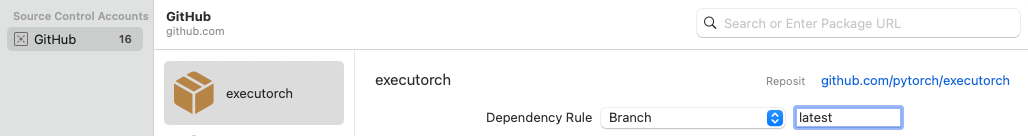
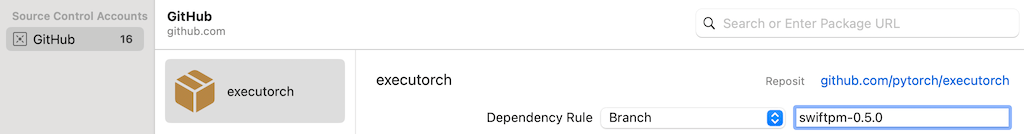
Update Apple binaries pin and docs. (#8056)
* Update nightly builds version for Apple binaries.

* Update Apple binaries pin.

* Update Aple binaries version in docs.

diff --git a/docs/source/apple-runtime.md b/docs/source/apple-runtime.md
@@ -25,7 +25,7 @@ The prebuilt ExecuTorch runtime, backend, and kernels are available as a [Swift 
 
 #### Xcode
 
-In Xcode, go to `File > Add Package Dependencies`. Paste the URL of the [ExecuTorch repo](https://github.com/pytorch/executorch) into the search bar and select it. Make sure to change the branch name to the desired ExecuTorch version in format "swiftpm-<version>", (e.g. "swiftpm-0.4.0"), or a branch name in format "swiftpm-<version>.<year_month_date>" (e.g. "swiftpm-0.4.0-20241201") for a nightly build on a specific date.
+In Xcode, go to `File > Add Package Dependencies`. Paste the URL of the [ExecuTorch repo](https://github.com/pytorch/executorch) into the search bar and select it. Make sure to change the branch name to the desired ExecuTorch version in format "swiftpm-<version>", (e.g. "swiftpm-0.5.0"), or a branch name in format "swiftpm-<version>.<year_month_date>" (e.g. "swiftpm-0.5.0-20250130") for a nightly build on a specific date.
 
 ![](_static/img/swiftpm_xcode1.png)
 
@@ -58,7 +58,7 @@ let package = Package(
   ],
   dependencies: [
     // Use "swiftpm-<version>.<year_month_day>" branch name for a nightly build.
-    .package(url: "https://github.com/pytorch/executorch.git", branch: "swiftpm-0.4.0")
+    .package(url: "https://github.com/pytorch/executorch.git", branch: "swiftpm-0.5.0")
   ],
   targets: [
     .target(

diff --git a/examples/demo-apps/apple_ios/LLaMA/docs/delegates/mps_README.md b/examples/demo-apps/apple_ios/LLaMA/docs/delegates/mps_README.md
@@ -76,7 +76,7 @@ sudo /Applications/CMake.app/Contents/bin/cmake-gui --install
 The prebuilt ExecuTorch runtime, backend, and kernels are available as a Swift PM package.
 
 ### Xcode
-Open the project in Xcode.In Xcode, go to `File > Add Package Dependencies`. Paste the URL of the ExecuTorch repo into the search bar and select it. Make sure to change the branch name to the desired ExecuTorch version, e.g., “0.4.0”, or just use the “latest” branch name for the latest stable build.
+Open the project in Xcode.In Xcode, go to `File > Add Package Dependencies`. Paste the URL of the ExecuTorch repo into the search bar and select it. Make sure to change the branch name to the desired ExecuTorch version, e.g., “swiftpm-0.5.0”, or a branch name in format "swiftpm-<version>.<year_month_date>" (e.g. "swiftpm-0.5.0-20250130") for a nightly build on a specific date.
 
 Note: If you're running into any issues related to package dependencies, quit Xcode entirely, delete the whole executorch repo, clean the caches by running the command below in terminal and clone the repo again.
 

diff --git a/examples/demo-apps/apple_ios/LLaMA/docs/delegates/xnnpack_README.md b/examples/demo-apps/apple_ios/LLaMA/docs/delegates/xnnpack_README.md
@@ -130,9 +130,9 @@ While we recommended using the latest prebuilt package pre-configured with the X
 
 Go to Project Navigator, click on LLaMA. `Project --> LLaMA --> Package Dependencies`, and update the package dependencies to any of the available options below:
 
-- Branch --> swiftpm-0.4.0.20241120 (amend to match the latest nightly build)
-- Branch --> 0.4.0
-- Branch --> 0.3.0
+- Branch --> swiftpm-0.5.0.20250130 (amend to match the latest nightly build)
+- Branch --> swiftpm-0.5.0
+- Branch --> swiftpm-0.4.0
 
 ### 2.2 Manually build the package locally and link them
 
